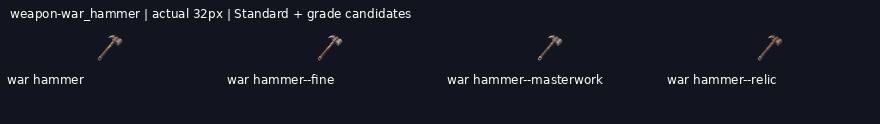
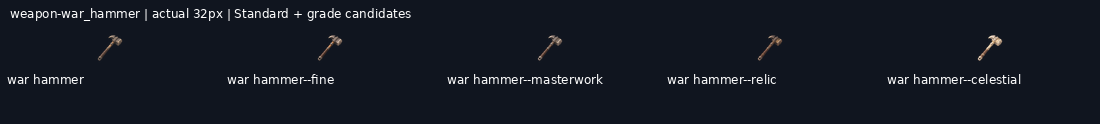
Deliver weapon-war_hammer--celestial review candidate with native provenance and exports

diff --git a/art/_archive/gear/2026-11-21-retry-continuation/functions-driver.js b/art/_archive/gear/2026-11-21-retry-continuation/functions-driver.js
@@ -1,7 +1,7 @@
 async function render(id){
 if(!/^[a-z0-9_-]+--(fine|masterwork|relic|celestial)$/.test(id))throw Error("Invalid id");
 const root="/workspace/work/phc-reset-2026-11-20",arc="art/_archive/gear/2026-11-21-retry-continuation",repo="https://api.github.com/repos/leonpentastorm/Project-Heaven-Cry";if(load("newQuota"))throw Error("Actual quota active");
-const rs=await Promise.allSettled([tools.mcp__codex_apps__github_fetch({url:repo+"/issues/3"}),tools.mcp__codex_apps__github_fetch_issue_comments({repo_full_name:"leonpentastorm/Project-Heaven-Cry",issue_number:3}),tools.mcp__codex_apps__github_fetch({url:repo+"/git/ref/heads/art/2026-11-20-reset-continuation"}),tools.mcp__codex_apps__github_fetch({url:repo+"/git/ref/heads/art/2026-11-19-kept-blade-grades"}),tools.mcp__codex_apps__github_fetch({url:repo+"/git/ref/heads/develop"}),tools.exec_command({cmd:"python3 - '"+id+"' <<'PY'\nfrom pathlib import Path\nimport json,sys,hashlib,subprocess\nA=Path('"+arc+"');j=next(x for x in json.loads((A/'queue.json').read_text()) if x['id']==sys.argv[1]);c=json.load(open('art/catalog.json'))['gear'];assert j['status']=='pending' and j['retry_authorized_by_user'];assert j['id'] not in c and not Path(j['path']).exists();assert not subprocess.check_output(['git','ls-tree','HEAD','--',j['path']]).strip();assert hashlib.sha256(j['prompt'].encode()).hexdigest()==j.get('active_prompt_sha256',j['original_prompt_sha256']);assert (A/'source-brief.md').read_text()==Path(j['brief']).read_text();s=Path('art/icons/gear/'+j['standard_id']+'.png');assert hashlib.sha256(s.read_bytes()).hexdigest()==j['standard_sha256']==c[j['standard_id']]['sha256'];assert not j.get('depends_on') or j['depends_on'] in c;refs={}\nfor p in j['references']:\n q=Path(p);assert q.is_file(),p;h=hashlib.sha256(q.read_bytes()).hexdigest();refs[p]=h\n if p.startswith('art/icons/gear/'):assert c[q.stem]['sha256']==h\nn=len(list((A/'attempts'/j['id']).glob('*/request.json')))+1\nprint(json.dumps({'head':subprocess.check_output(['git','rev-parse','HEAD'],text=True).strip(),'job':j,'reference_hashes':refs,'attempt':n,'claim_comment':json.loads((A/'claim.json').read_text()).get('claim_comments',{}).get(j['id'],7055037202)}))\nPY",workdir:root,max_output_tokens:6500})]);for(const r of rs)if(r.status!=="fulfilled"||r.value.isError)throw Error("Live check failed");if(rs[5].value.exit_code)throw Error(rs[5].value.output);const local=JSON.parse(rs[5].value.output),issue=JSON.parse(rs[0].value.structuredContent.content),cs=rs[1].value.structuredContent.comments,own=JSON.parse(rs[2].value.structuredContent.content).object.sha,peer=JSON.parse(rs[3].value.structuredContent.content).object.sha,dev=JSON.parse(rs[4].value.structuredContent.content).object.sha;if(own!==local.head||peer!=="3f50be29283f413056b49024914c1b12cda9f359"||dev!=="1401b82e5c3c4a6b1886a95bec40e83197e287f7")throw Error("Remote/source update needs inspection");if(!issue.body.includes("sole-20261121-0109")||!cs.some(c=>c.id===local.claim_comment&&c.body.includes(id)))throw Error("Claim missing");const news=cs.filter(c=>c.id>(load("seen")||7055037202));if(news.some(c=>!c.body.includes("sole-20261121-0109")&&(c.body.includes(id)||c.body.includes(local.job.standard_id))))throw Error("New overlapping coordination");if(news.length)text(news.map(c=>({id:c.id,body:c.body})));store("seen",Math.max(...cs.map(c=>c.id)));
+const rs=await Promise.allSettled([tools.mcp__codex_apps__github_fetch({url:repo+"/issues/3"}),tools.mcp__codex_apps__github_fetch_issue_comments({repo_full_name:"leonpentastorm/Project-Heaven-Cry",issue_number:3}),tools.mcp__codex_apps__github_fetch({url:repo+"/git/ref/heads/art/2026-11-20-reset-continuation"}),tools.mcp__codex_apps__github_fetch({url:repo+"/git/ref/heads/art/2026-11-19-kept-blade-grades"}),tools.mcp__codex_apps__github_fetch({url:repo+"/git/ref/heads/develop"}),tools.exec_command({cmd:"python3 - '"+id+"' <<'PY'\nfrom pathlib import Path\nimport json,sys,hashlib,subprocess\nA=Path('"+arc+"');j=next(x for x in json.loads((A/'queue.json').read_text()) if x['id']==sys.argv[1]);c=json.load(open('art/catalog.json'))['gear'];assert j['status']=='pending' and j['retry_authorized_by_user'];assert j['id'] not in c and not Path(j['path']).exists();assert not subprocess.check_output(['git','ls-tree','HEAD','--',j['path']]).strip();assert hashlib.sha256(j['prompt'].encode()).hexdigest()==j.get('active_prompt_sha256',j['original_prompt_sha256']);assert (A/'source-brief.md').read_text()==Path(j['brief']).read_text();s=Path('art/icons/gear/'+j['standard_id']+'.png');assert hashlib.sha256(s.read_bytes()).hexdigest()==j['standard_sha256']==c[j['standard_id']]['sha256'];assert not j.get('depends_on') or j['depends_on'] in c;refs={}\nfor p in j['references']:\n q=Path(p);assert q.is_file(),p;h=hashlib.sha256(q.read_bytes()).hexdigest();refs[p]=h\n if p.startswith('art/icons/gear/'):assert c[q.stem]['sha256']==h\nn=len(list((A/'attempts'/j['id']).glob('*/request.json')))+1\nprint(json.dumps({'head':subprocess.check_output(['git','rev-parse','HEAD'],text=True).strip(),'job':j,'reference_hashes':refs,'attempt':n,'claim_comment':json.loads((A/'claim.json').read_text()).get('claim_comments',{}).get(j['id'],7055037202)}))\nPY",workdir:root,max_output_tokens:6500})]);for(const r of rs)if(r.status!=="fulfilled"||r.value.isError)throw Error("Live check failed");if(rs[5].value.exit_code)throw Error(rs[5].value.output);const local=JSON.parse(rs[5].value.output),issue=JSON.parse(rs[0].value.structuredContent.content),cs=rs[1].value.structuredContent.comments,own=JSON.parse(rs[2].value.structuredContent.content).object.sha,peer=JSON.parse(rs[3].value.structuredContent.content).object.sha,dev=JSON.parse(rs[4].value.structuredContent.content).object.sha;if(own!==local.head||peer!=="3f50be29283f413056b49024914c1b12cda9f359"||dev!=="d1e74279046a5df79b0ac6a507dd00b13748398b")throw Error("Remote/source update needs inspection");if(!issue.body.includes("sole-20261121-0109")||!cs.some(c=>c.id===local.claim_comment&&c.body.includes(id)))throw Error("Claim missing");const news=cs.filter(c=>c.id>(load("seen")||7055037202));if(news.some(c=>!c.body.includes("sole-20261121-0109")&&(c.body.includes(id)||c.body.includes(local.job.standard_id))))throw Error("New overlapping coordination");if(news.length)text(news.map(c=>({id:c.id,body:c.body})));store("seen",Math.max(...cs.map(c=>c.id)));
 const clock=await tools.clock__curr_time({}),folder=arc+"/attempts/"+id+"/"+String(local.attempt).padStart(3,"0"),request={...local,clock,run:"sole-20261121-0109",latest_comment:load("seen"),peer,develop:dev};store("currentRequest",{folder,request});await tools.apply_patch("*** Begin Patch\n*** Add File: "+root+"/"+folder+"/request.json\n+"+JSON.stringify(request,null,2).replace(/\n/g,"\n+")+"\n*** End Patch");text({preflight:id,attempt:local.attempt,remote:own});
 try{const result=await tools.image_gen__imagegen({prompt:local.job.prompt,transparent_background:true,referenced_image_paths:local.job.references.map(p=>root+"/"+p)});const src=result.output_hint?.match(/\/(?:workspace|mnt\/data)\/[^\s]+\.png/)?.[0];if(!src)throw Error("Generated path missing");store("last",{id,src,folder,request,output_hint:result.output_hint});store("renderError",null);generatedImage(result);const s=await tools.exec_command({cmd:"python3 - '"+src+"' '"+folder+"' <<'PY'\nfrom pathlib import Path\nimport sys,shutil,hashlib,json\nsrc=Path(sys.argv[1]);a=Path(sys.argv[2]);shutil.copyfile(src,a/'native.png');data={'original_native_path':str(src),'native_path':str(a/'native.png'),'sha256':hashlib.sha256(src.read_bytes()).hexdigest()};(a/'source.json').write_text(json.dumps(data,indent=2)+'\\n');print(json.dumps(data))\nPY",workdir:root,max_output_tokens:400});if(s.exit_code)throw Error(s.output);text(s.output);}
 catch(e){const error=String(e);store("renderError",error);if(/usage_limit_reached/.test(error))store("newQuota",error);await tools.apply_patch("*** Begin Patch\n*** Add File: "+root+"/"+folder+"/error.json\n+"+JSON.stringify({id,error,clock,run:"sole-20261121-0109",request_path:folder+"/request.json"},null,2).replace(/\n/g,"\n+")+"\n*** End Patch");text({id,error});}

diff --git a/art/_archive/gear/2026-11-21-retry-continuation/HANDOFF.md b/art/_archive/gear/2026-11-21-retry-continuation/HANDOFF.md
@@ -1,13 +1,13 @@
 # Reset continuation progress
 
-Branch: `art/2026-11-20-reset-continuation`. New deliveries: 29/41.
+Branch: `art/2026-11-20-reset-continuation`. New deliveries: 30/41.
 
 Shared coordination: https://github.com/leonpentastorm/Project-Heaven-Cry/issues/3 . Read START-HERE.md before extending this queue.
 
 All new entries remain review-candidate; production_approved:false and implementation_ready:false. Exact-outline review remains pending.
 
-Ready jobs: weapon-purifier_flamer--masterwork, weapon-ork_machete--masterwork, weapon-war_axe--fine, weapon-war_pick--celestial, weapon-war_hammer--celestial.
+Ready jobs: weapon-purifier_flamer--masterwork, weapon-ork_machete--masterwork, weapon-war_axe--fine, weapon-war_pick--celestial.
 
-Pending jobs: weapon-purifier_flamer--masterwork, weapon-purifier_flamer--relic, weapon-purifier_flamer--celestial, weapon-ork_machete--masterwork, weapon-ork_machete--relic, weapon-ork_machete--celestial, weapon-war_axe--fine, weapon-war_axe--masterwork, weapon-war_axe--relic, weapon-war_axe--celestial, weapon-war_pick--celestial, weapon-war_hammer--celestial.
+Pending jobs: weapon-purifier_flamer--masterwork, weapon-purifier_flamer--relic, weapon-purifier_flamer--celestial, weapon-ork_machete--masterwork, weapon-ork_machete--relic, weapon-ork_machete--celestial, weapon-war_axe--fine, weapon-war_axe--masterwork, weapon-war_axe--relic, weapon-war_axe--celestial, weapon-war_pick--celestial.
 
 Quota state: null.

diff --git a/art/briefs/prompts-2026-11-19/PRODUCTION-STATUS.md b/art/briefs/prompts-2026-11-19/PRODUCTION-STATUS.md
@@ -1,12 +1,12 @@
 # Current sole-artist production
 
-**542/871 (62.2%) selected review candidates.** Last delivery: `weapon-war_hammer--relic`. Imports, exports, components, rejected attempts and archived alternatives add0. Artistic/implementation approvals remainfalse.
+**543/871 (62.3%) selected review candidates.** Last delivery: `weapon-war_hammer--celestial`. Imports, exports, components, rejected attempts and archived alternatives add0. Artistic/implementation approvals remainfalse.
 
 | Requested work | Selected | Total |
 | --- | ---: | ---: |
 | icons_tiles | 88 | 88 |
 | new_repaint_standards | 53 | 104 |
-| grades | 387 | 656 |
+| grades | 388 | 656 |
 | uniques | 14 | 23 |
 
 Active run sole-20261121-0109, branch art/2026-11-20-reset-continuation. Shared live ledger: https://github.com/leonpentastorm/Project-Heaven-Cry/issues/3 . Current renewed grade lane: art/_archive/gear/2026-11-21-retry-continuation/START-HERE.md. All earlier512 candidate drawings were integrated before this lane; native bytes, cleaned imports, source metadata and all prior failures preserved.

diff --git a/art/_archive/gear/2026-11-20-reset-continuation/START-HERE.md b/art/_archive/gear/2026-11-20-reset-continuation/START-HERE.md
@@ -1,6 +1,6 @@
 # Current21November continuation
 
-542/871 selected. Active lane art/_archive/gear/2026-11-21-retry-continuation/START-HERE.md, run sole-20261121-0109. User explicitly authorized renewed fictional-art attempts; all priorart/errors preserved. Read liveissue3+allcomments and remote deliveries before everyrender. RunningScript completed with original marks unchanged. All approvalsfalse;0.30 holdsremain. See PRODUCTION-STATUS.md and REMAINING-WORK.json for the latest exact count.
+543/871 selected. Active lane art/_archive/gear/2026-11-21-retry-continuation/START-HERE.md, run sole-20261121-0109. User explicitly authorized renewed fictional-art attempts; all priorart/errors preserved. Read liveissue3+allcomments and remote deliveries before everyrender. RunningScript completed with original marks unchanged. All approvalsfalse;0.30 holdsremain. See PRODUCTION-STATUS.md and REMAINING-WORK.json for the latest exact count.
 
 # Historical20November handoff
 
